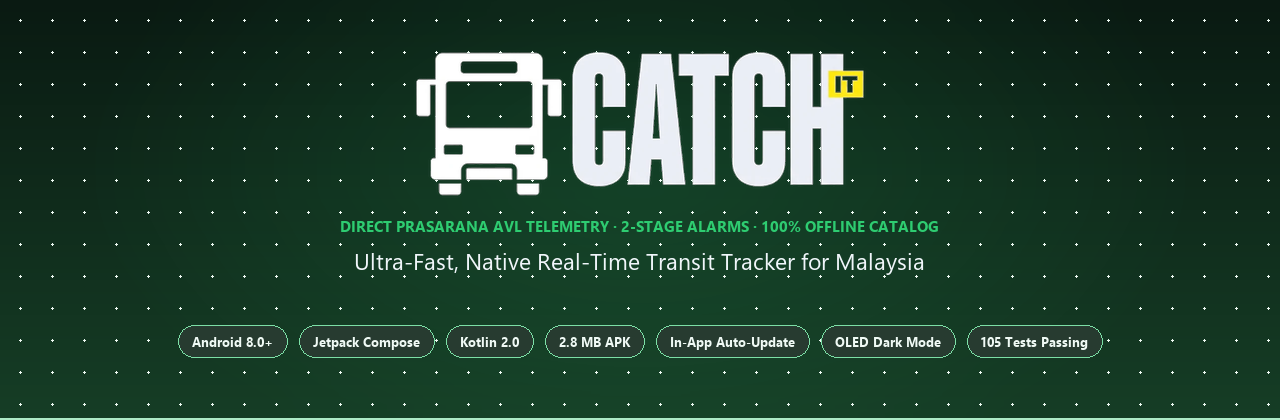
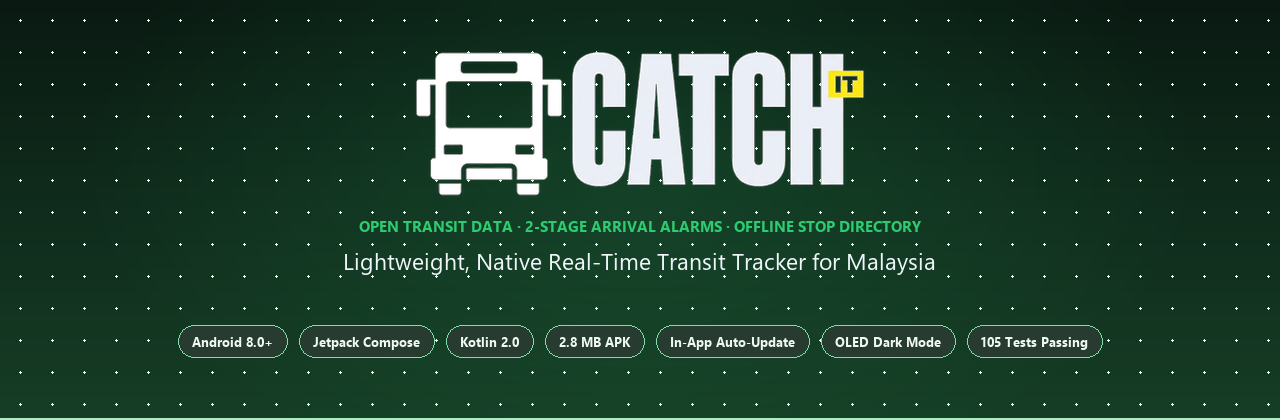
docs: ground claims, remove marketing superlatives, and clarify route coverage

Changed region(s): [[0.25, 0.5881, 0.75, 0.65], [0.25, 0.5262, 0.75, 0.5571]]

diff --git a/scripts/generate_repo_graphics.py b/scripts/generate_repo_graphics.py
@@ -65,13 +65,13 @@ def make_hero_banner():
     
     # Kicker / Super-tagline
     kicker_font = get_font(FONT_BOLD, 15)
-    kicker = "DIRECT PRASARANA AVL TELEMETRY · 2-STAGE ALARMS · 100% OFFLINE CATALOG"
+    kicker = "OPEN TRANSIT DATA · 2-STAGE ARRIVAL ALARMS · OFFLINE STOP DIRECTORY"
     kw = kicker_font.getlength(kicker)
     draw.text(((W - kw) // 2, 215), kicker, font=kicker_font, fill=(46, 204, 113, 255))
 
     # Subtitle
     sub_font = get_font(FONT_REG, 23)
-    subtitle = "Ultra-Fast, Native Real-Time Transit Tracker for Malaysia"
+    subtitle = "Lightweight, Native Real-Time Transit Tracker for Malaysia"
     sw = sub_font.getlength(subtitle)
     draw.text(((W - sw) // 2, 245), subtitle, font=sub_font, fill=(240, 246, 250, 255))
 
@@ -174,11 +174,11 @@ def make_feature_showcase():
     title_font = get_font(FONT_BOLD, 36)
     sub_font = get_font(FONT_REG, 20)
     
-    title = "Engineered for Malaysian Commuters"
+    title = "Built for Daily Bus Commuters"
     tw = title_font.getlength(title)
     draw.text(((W - tw) // 2, 40), title, font=title_font, fill=(255, 255, 255, 255))
 
-    sub = "Real-Time GPS · Smart Offline Catalog · 2-Stage Departure Alarms · Instant OLED Dark Mode"
+    sub = "Real-Time Telemetry · Landmark Stop Search · 2-Stage Departure Alarms · OLED Dark Mode"
     sw = sub_font.getlength(sub)
     draw.text(((W - sw) // 2, 88), sub, font=sub_font, fill=(160, 185, 172, 255))
 
@@ -187,10 +187,10 @@ def make_feature_showcase():
         todak_path = os.path.join(STORE_SCREENSHOTS, "03_route_live_map.png")
 
     screens = [
-        (os.path.join(STORE_SCREENSHOTS, "01_bus_home.png"), "1. Live Bus Radar", "Instant next arrival ETAs & live status"),
-        (todak_path, "2. Destination Search", "Find nearest stops by landmarks & walking distance"),
-        (os.path.join(STORE_SCREENSHOTS, "07_alarm_setup.png"), "3. 2-Stage Alarms", "Wakeup warning & departure arrival ring"),
-        (os.path.join(ART_DIR, "home_dark_screen.png"), "4. OLED Dark Mode", "Pitch-black UI crafted for evening commutes")
+        (os.path.join(STORE_SCREENSHOTS, "01_bus_home.png"), "1. Live Bus Radar", "Arrival times with live AVL tracking"),
+        (todak_path, "2. Destination Search", "Locate nearest stops by landmarks & walking distance"),
+        (os.path.join(STORE_SCREENSHOTS, "07_alarm_setup.png"), "3. 2-Stage Alarms", "Warning alert at checkpoint + departure ring"),
+        (os.path.join(ART_DIR, "home_dark_screen.png"), "4. OLED Dark Mode", "High-contrast dark theme for night commutes")
     ]
 
     card_w = 340
@@ -237,11 +237,11 @@ def make_theme_comparison():
     t_font = get_font(FONT_BOLD, 30)
     s_font = get_font(FONT_REG, 17)
     
-    title = "Adaptive Design: Light Mode vs OLED Dark Mode"
+    title = "Adaptive Design: Light & OLED Dark Mode"
     tw = t_font.getlength(title)
     draw.text(((W - tw) // 2, 32), title, font=t_font, fill=(255, 255, 255, 255))
 
-    sub = "Seamless manual toggle in Settings with instant real-time theme switching"
+    sub = "Manual switch in Settings between System, Light, and Dark mode"
     sw = s_font.getlength(sub)
     draw.text(((W - sw) // 2, 72), sub, font=s_font, fill=(160, 185, 172, 255))
 
@@ -276,13 +276,13 @@ def make_theme_comparison():
 
     lx = start_x + card_w // 2
     l_txt = "Daylight Clarity (Light)"
-    l_sub = "High contrast in direct sunlight"
+    l_sub = "Clean contrast for daytime viewing"
     draw.text((lx - lbl_font.getlength(l_txt) // 2, top_y + card_h + 14), l_txt, font=lbl_font, fill=(240, 246, 250, 255))
     draw.text((lx - sub_lbl_font.getlength(l_sub) // 2, top_y + card_h + 38), l_sub, font=sub_lbl_font, fill=(160, 180, 170, 255))
 
     dx = start_x + card_w + gap + card_w // 2
     d_txt = "Pure Pitch Black (OLED Dark)"
-    d_sub = "#000000 true black, zero eye strain"
+    d_sub = "#000000 true black for night commutes"
     draw.text((dx - lbl_font.getlength(d_txt) // 2, top_y + card_h + 14), d_txt, font=lbl_font, fill=(46, 204, 113, 255))
     draw.text((dx - sub_lbl_font.getlength(d_sub) // 2, top_y + card_h + 38), d_sub, font=sub_lbl_font, fill=(160, 180, 170, 255))
 

diff --git a/README.md b/README.md
@@ -14,9 +14,9 @@
 
 <br/>
 
-**Ultra-fast, native real-time MRT feeder bus & transit tracker for Malaysia.**  
-Built 100% with Kotlin & Jetpack Compose. Answers the only question Malaysian commuters care about:  
-*When does my bus arrive, and when should I walk to the curb?*
+**Native real-time MRT feeder bus tracker for Malaysia.**  
+Built with Kotlin & Jetpack Compose. Answers the daily transit question:  
+*When does my feeder bus arrive, and when should I walk to the stop?*
 
 <br/>
 
@@ -46,20 +46,20 @@ Built 100% with Kotlin & Jetpack Compose. Answers the only question Malaysian co
 
 | Feature | Description |
 | :--- | :--- |
-| 🛰 **Direct AVL Telemetry** | 30-second live vehicle positioning direct from Prasarana & `data.gov.my` GTFS-RT APIs with stale-feed freshness badges. |
-| 🏢 **Smart Destination Search** | Search any landmark, university, or mall (*Todak Academy, Dpulze, Sunway Pyramid, KLCC*) to get nearest bus stop, walking distance, and routes. |
-| 🔔 **2-Stage Departure Alarms** | Set your stop — CatchIt alerts you when the bus hits your warning checkpoint, then rings when it reaches your pickup curb. |
-| ⚠ **Live Service Disruption Alerts** | Instant notifications for route diversions, road closures, and maintenance synced in background via `WorkManager`. |
-| 🌙 **OLED Dark Mode** | Manual 3-way toggle (`System` / `Light` / `Dark`) with instant reactive theme switching and `#000000` true-black canvas. |
-| 🔄 **Silent In-App Auto Updates** | Background checks via GitHub Releases API with 1-tap installation — zero Google Play Services or bloatware required. |
-| 📦 **Ultra Lightweight (2.8 MB)** | R8 full-mode minification with stripped debug metadata. Lightning fast cold start on any Android device. |
-| 🗺 **Nationwide Transit Directory** | Offline catalog spanning all 91 MRT feeder routes plus networks across Selangor, Kuala Lumpur, Penang, Johor, and Perak. |
+| 🛰 **Open AVL Telemetry** | 30-second live vehicle positioning from Prasarana & `data.gov.my` open GTFS-RT feeds with freshness indicators. |
+| 🏢 **Landmark & Stop Search** | Search common landmarks, colleges, and malls (*Todak Academy, Dpulze, Sunway Pyramid, KLCC*) to see nearest stops and walking distance. |
+| 🔔 **2-Stage Departure Alarms** | Set your stop — get an early alert when the bus reaches your warning stop, then a ring when it reaches your pickup stop. |
+| ⚠ **Live Service Alerts** | Route diversions, road closures, and maintenance alerts synced periodically in background via `WorkManager`. |
+| 🌙 **OLED Dark & Light Modes** | Manual 3-way toggle (`System` / `Light` / `Dark`) with reactive theme switching and `#000000` dark canvas. |
+| 🔄 **In-App Update Checker** | Background version check against GitHub Releases with 1-tap APK install prompt — no app store account required. |
+| 📦 **Compact APK (2.8 MB)** | R8 full-mode minification with stripped debug metadata for fast installation and low storage footprint. |
+| 🗺 **MRT Feeder Stop Catalog** | Offline catalog covering all 91 Rapid KL MRT feeder routes (T-routes) across Klang Valley. |
 
 ---
 
 ## 🌓 Adaptive Design: Light & OLED Dark Mode
 
-CatchIt is engineered for high legibility under direct Malaysian sunlight and zero eye fatigue during night-time commutes.
+CatchIt provides clear readability for daytime travel and an OLED dark theme for night-time commutes.
 
 <div align="center">
   <img src="docs/images/catchit_theme_comparison.png" alt="CatchIt Theme Comparison" width="95%">
